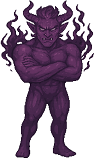
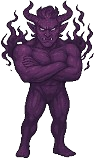
Mudei o movimento e a aparência da Avareza, agora ela é uma gigante que sai de baixo e volta, dando mais dinâmica ao jogo. Além disso, estou tentando mudar o movimento da luxuria para deixa-la maior e fazer com que ela saia pelo lado

diff --git a/main.py b/main.py
@@ -7,25 +7,29 @@ background = pygame.image.load("recursos/universeBackground.png")
 movimentoBackground = -100
 velocidadeeBackground = 0
 orgulho= pygame.image.load("recursos/abstrataOrgulho.png")
-luxuria = pygame.image.load("recursos/abstrataLuxuria.png")
-avareza = pygame.image.load("recursos/abstrataAvareza.png")
+luxuria = pygame.image.load("recursos/abstrataLuxuria (2).png")
+avareza = pygame.image.load("recursos/abastrataAvareza.png")
 gula = pygame.image.load("recursos/abstrataGula.png")
 ira = pygame.image.load("recursos/abstrataIra.png")
 inveja= pygame.image.load("recursos/abstrataInveja.png")
 preguica = pygame.image.load("recursos/abstrataPreguica.png")
 espirito = pygame.image.load("recursos/espirito.png")
-demiurge = pygame.image.load("recursos/demiurge_no_bg.png")
+demiurge = pygame.image.load("recursos/demiurge.png")
 pecados= [orgulho, luxuria, avareza, gula, ira, inveja, preguica]
 pecadoAtual = random.choice(pecados)
 pecadoX = random.randint(0, 900)
 pecadoY = -80
-velocidadePecado = 5
+velocidadePecadoBase = 1
+velocidadePecado = velocidadePecadoBase
+avarezaSubir=False
+luxuriaLateral = False
 velocidadeEspirito = 0
 espiritoX = 500
 movimentoXDemiurge = 300
 movimentoYDemiurge = 100
 velocidadeXdemiurge = 0
 velocidadeYdemiurge = 0
+primeiro_pecado = True
 while True:
     for event in pygame.event.get():
         if event.type == pygame.QUIT:
@@ -71,10 +75,61 @@ while True:
     screen.blit(demiurge, (movimentoXDemiurge,movimentoYDemiurge))
     screen.blit(pecadoAtual, (pecadoX, pecadoY))
     pecadoY += velocidadePecado
-    if pecadoY > 700:
-        pecadoAtual = random.choice(pecados)
-        pecadoX = random.randint(0, 900)
-        pecadoY = -100
-        velocidadePecado+=1
+    if pecadoAtual == luxuria:
+        if luxuriaLateral:
+            velocidadeLuxuria = velocidadePecadoBase
+            pecadoX += velocidadeLuxuria
+            if pecadoX >= 100 + 200:  # Anda 200px a partir de 100 (ou ajuste como quiser)
+                luxuriaLateral = False
+        else:
+            velocidadeLuxuria = velocidadePecadoBase
+            pecadoX -= velocidadeLuxuria
+            if pecadoX <= -100:
+                # Reset do pecado depois de completar ida e volta
+                if primeiro_pecado:
+                    pecadoAtual = random.choice([p for p in pecados if p != avareza and p != luxuria])
+                    primeiro_pecado = False
+                else:
+                    pecadoAtual = random.choice(pecados)
+    if pecadoAtual == avareza:
+        velocidadeAvareza = velocidadePecadoBase
+        if not avarezaSubir and pecadoY <= 0:
+            velocidadePecado = velocidadeAvareza  # Inverter para descer
+            avarezaSubir = True
+        elif avarezaSubir and pecadoY > 700:
+            # Reset para novo pecado
+            pecadoAtual = random.choice(pecados)
+            pecadoX = random.randint(0, 900)
+            if pecadoAtual == avareza:
+                pecadoY = 700
+                velocidadePecado = -velocidadeAvareza
+                avarezaSubir = False
+            elif pecadoAtual == luxuria:
+                velocidadeLuxuria = velocidadePecadoBase
+                pecadoX = -100
+                pecadoY = 275
+                luxuria_ida = True
+                velocidadePecado = velocidadeLuxuria
+            else:
+                pecadoY = -80
+                velocidadePecado = velocidadePecadoBase
+    else:
+        # Pecado comum: se passou do fim da tela, troca
+        if pecadoY > 700:
+            velocidadePecadoBase+=1
+            if primeiro_pecado:
+                pecadoAtual=random.choice([pecado for pecado in pecados if pecado != avareza and pecado != luxuria])  # Evita avareza e luxuria no primeiro pecado
+                primeiro_pecado = False
+            else:
+                pecadoAtual = random.choice(pecados)
+            pecadoX = random.randint(0, 900)
+            if pecadoAtual == avareza:
+                velocidadeAvareza = velocidadePecadoBase
+                pecadoY = 700
+                velocidadePecado = -velocidadeAvareza
+                avarezaSubir = False
+            else:
+                pecadoY = -80
+                velocidadePecado = velocidadePecadoBase
     screen.blit(espirito, (espiritoX, 275))
     pygame.display.update()
